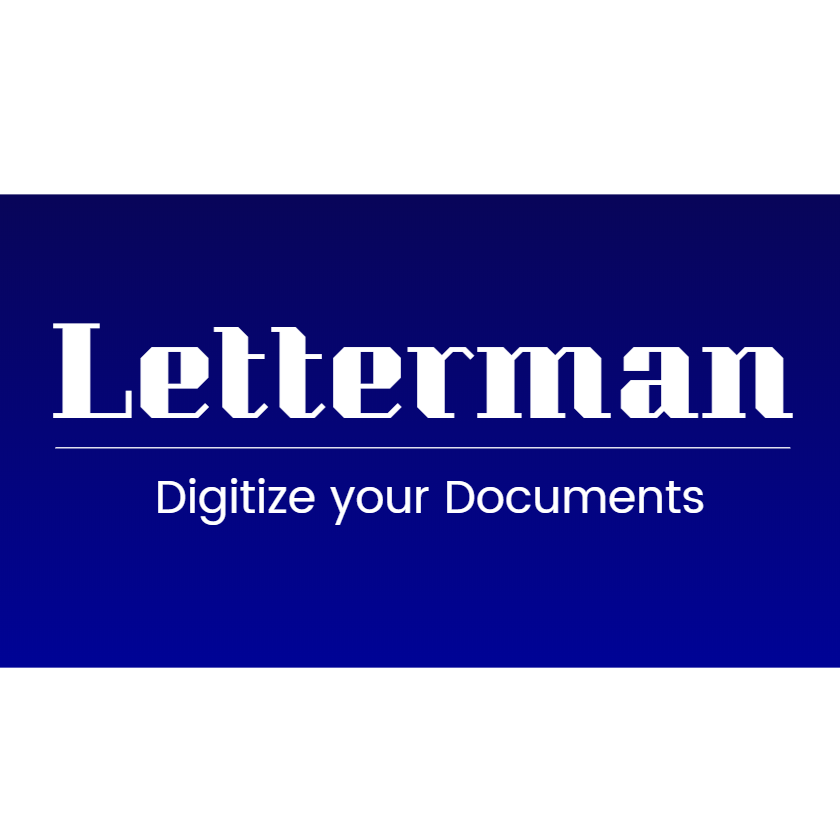
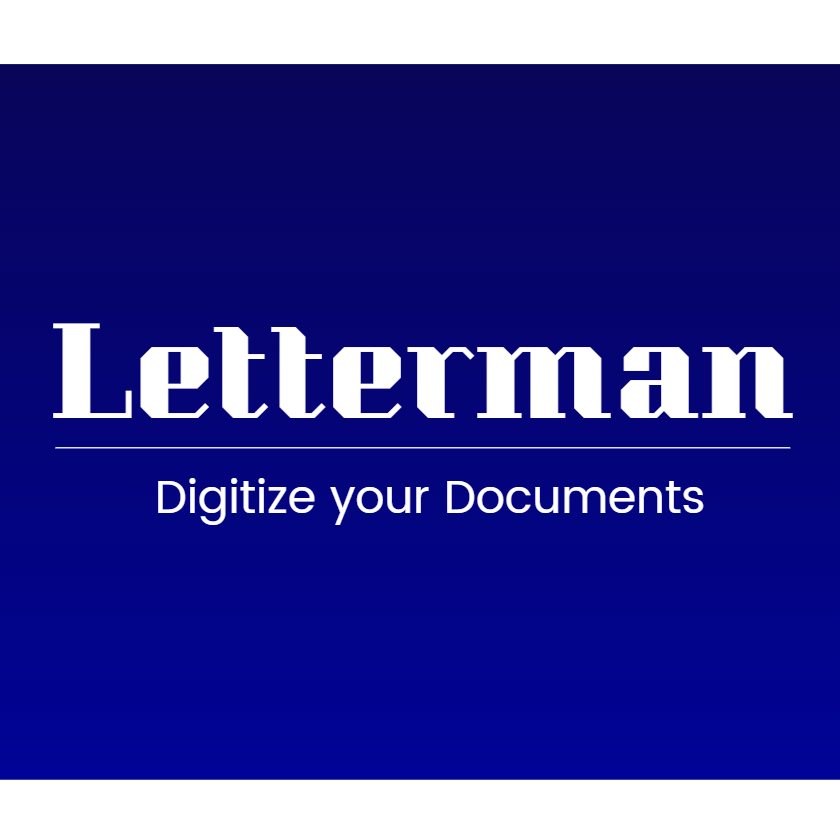
change image

Changed region(s): [[0.0, 0.0619, 1.0, 0.2476], [0.0, 0.7738, 1.0, 0.9286]]

diff --git a/app/index.html b/app/index.html
@@ -32,10 +32,10 @@
       property="og:description"
       content="Letterman helps you turn your physical documents into regular text for your to read and manage and all through your phone. Take a picture and letterman will process it's content through OCR into machine-text. "
     />
-    <meta property="og:image" content="https://imgur.com/elevMIT.png" />
+    <meta property="og:image" content="https://imgur.com/fdgm6V3.png" />
 
     <!-- Twitter -->
-    <meta property="twitter:card" content="https://imgur.com/elevMIT.png" />
+    <meta property="twitter:card" content="https://imgur.com/fdgm6V3.png" />
     <meta property="twitter:url" content="https://letterman.zubeirtech.dev/" />
     <meta
       property="twitter:title"
@@ -45,7 +45,7 @@
       property="twitter:description"
       content="Letterman helps you turn your physical documents into regular text for your to read and manage and all through your phone. Take a picture and letterman will process it's content through OCR into machine-text. "
     />
-    <meta property="twitter:image" content="https://imgur.com/elevMIT.png" />
+    <meta property="twitter:image" content="https://imgur.com/fdgm6V3.png" />
 
     {{content-for "head"}}
     <link rel="manifest" href="{{rootURL}}manifest.webmanifest">

diff --git a/app/controllers/dashboard.js b/app/controllers/dashboard.js
@@ -1,6 +1,5 @@
 import Controller from '@ember/controller';
 import { set } from '@ember/object';
-import { random } from 'ember-math-helpers/helpers/random';
 
 export default Controller.extend({
 
